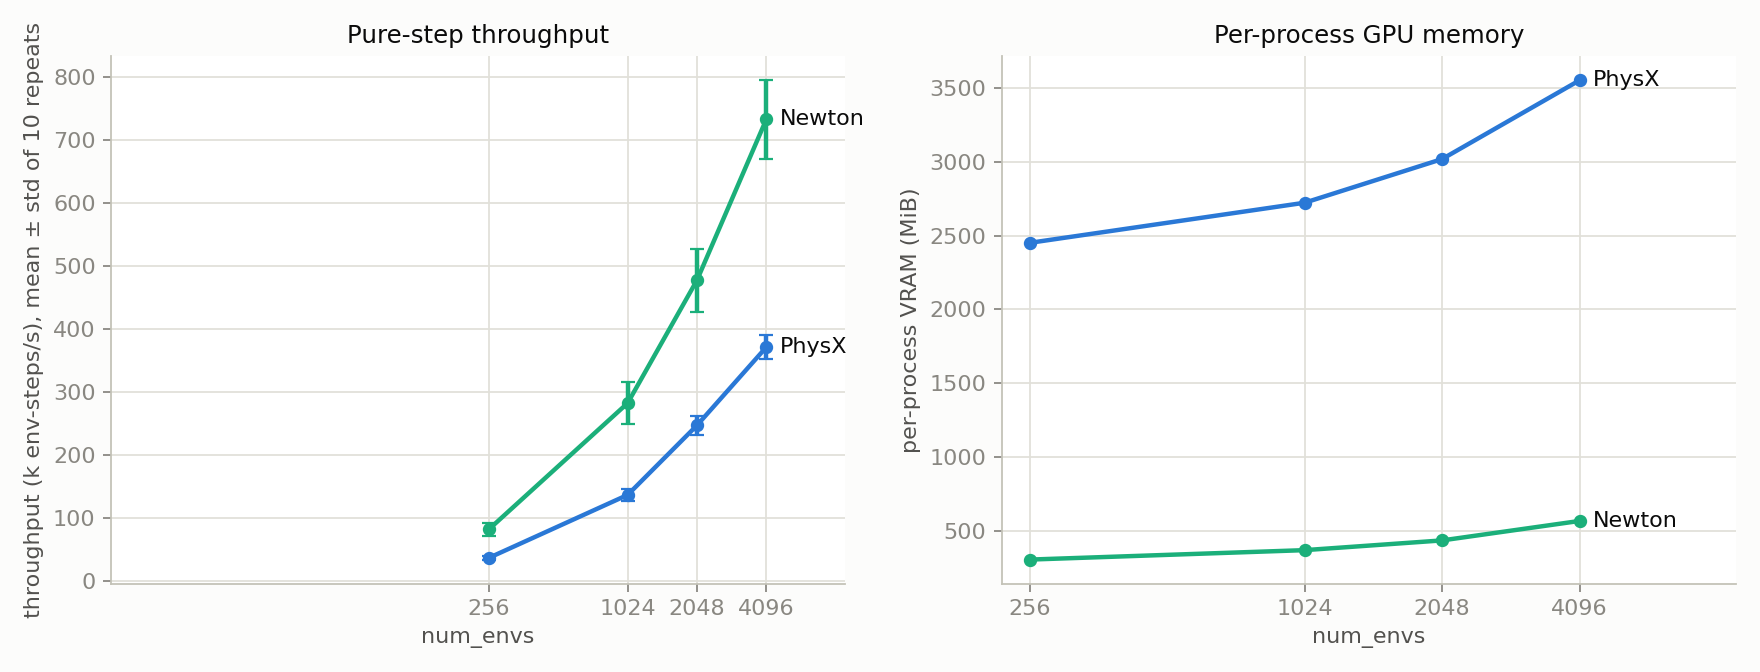
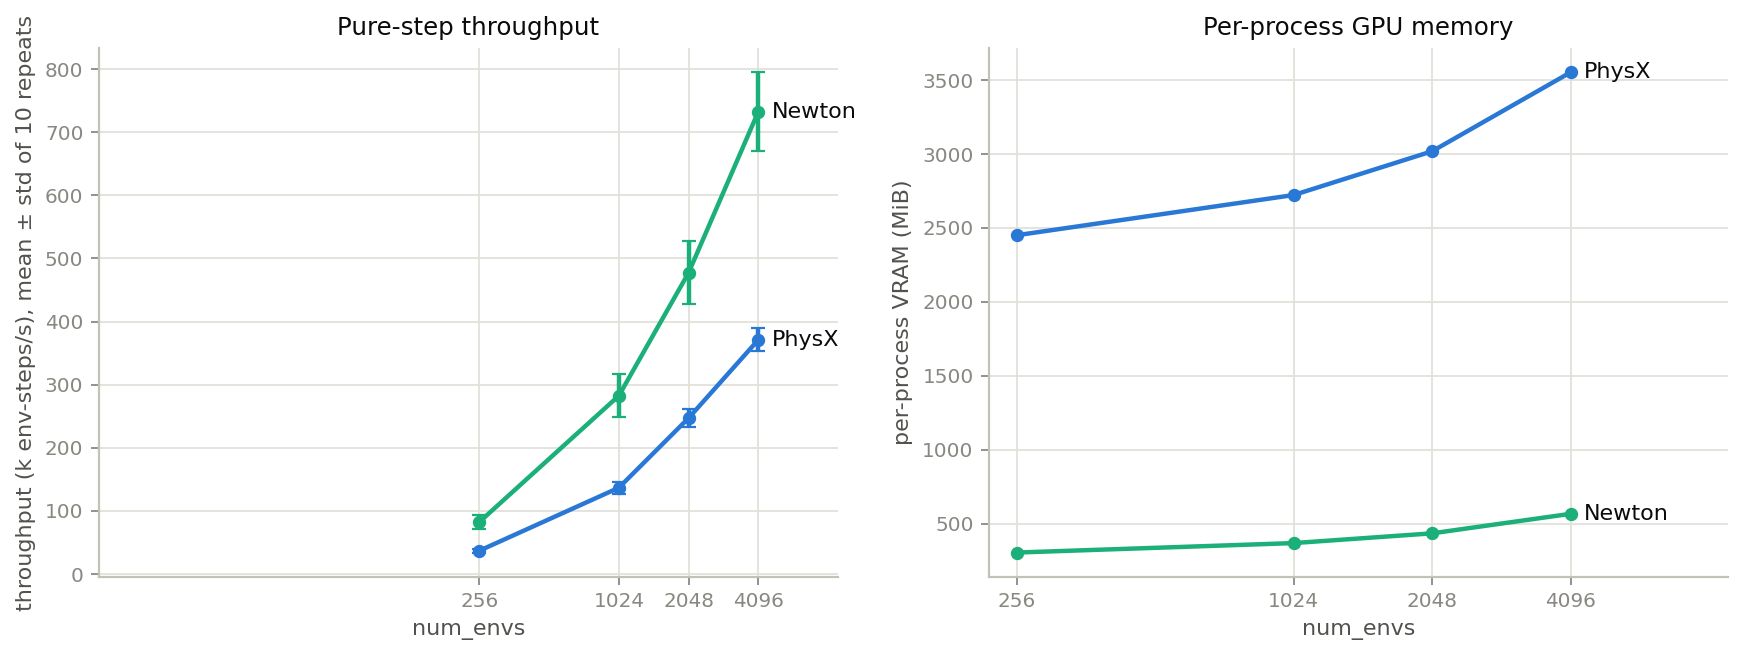
Recolor figures to blue/green on white

diff --git a/scripts/analyze_strengthen.py b/scripts/analyze_strengthen.py
@@ -147,7 +147,7 @@ def main():
     ax1.set_xlim(right=ENV_COUNTS[-1] * 2.2)
     ax2.set_xlim(right=ENV_COUNTS[-1] * 2.2)
     fig.tight_layout()
-    fig.savefig(os.path.join(SDIR, "fig_scaling.png"), facecolor="#fcfcfb")
+    fig.savefig(os.path.join(SDIR, "fig_scaling.png"), facecolor="#ffffff")
     plt.close(fig)
 
     # ---------- figure 2: learning curves, IQM + bootstrap band ----------
@@ -181,7 +181,7 @@ def main():
                  color="#0b0b0b", fontsize=11)
     ax.set_xlim(right=tmax * 1.12)
     fig.tight_layout()
-    fig.savefig(os.path.join(SDIR, "fig_learning.png"), facecolor="#fcfcfb")
+    fig.savefig(os.path.join(SDIR, "fig_learning.png"), facecolor="#ffffff")
     plt.close(fig)
 
     # ---------- figure 3: learning curves vs iteration ----------
@@ -212,7 +212,7 @@ def main():
                  color="#0b0b0b", fontsize=11)
     ax.set_xlim(right=len(it) * 1.12)
     fig.tight_layout()
-    fig.savefig(os.path.join(SDIR, "fig_learning_iter.png"), facecolor="#fcfcfb")
+    fig.savefig(os.path.join(SDIR, "fig_learning_iter.png"), facecolor="#ffffff")
     plt.close(fig)
 
     # ---------- markdown ----------

diff --git a/scripts/physx_style.py b/scripts/physx_style.py
@@ -15,8 +15,8 @@ _STYLE = os.path.join(os.path.dirname(os.path.abspath(__file__)), "physx_style.m
 
 # Editorial-print ink used for annotations/titles when set explicitly.
 INK = "#0b0b0b"
-CREAM = "#fcfcfb"
-PALETTE = ["#2a78d6", "#1baf7a", "#d08a2e", "#b0472b", "#6a5acd", "#52514e"]
+CREAM = "#ffffff"
+PALETTE = ["#2a78d6", "#1baf7a", "#52514e", "#898781", "#b8b7b0", "#c3c2b7"]
 # Canonical two-backend mapping (physx-newton-bench).
 COLORS = {"physx": "#2a78d6", "newton": "#1baf7a"}
 
